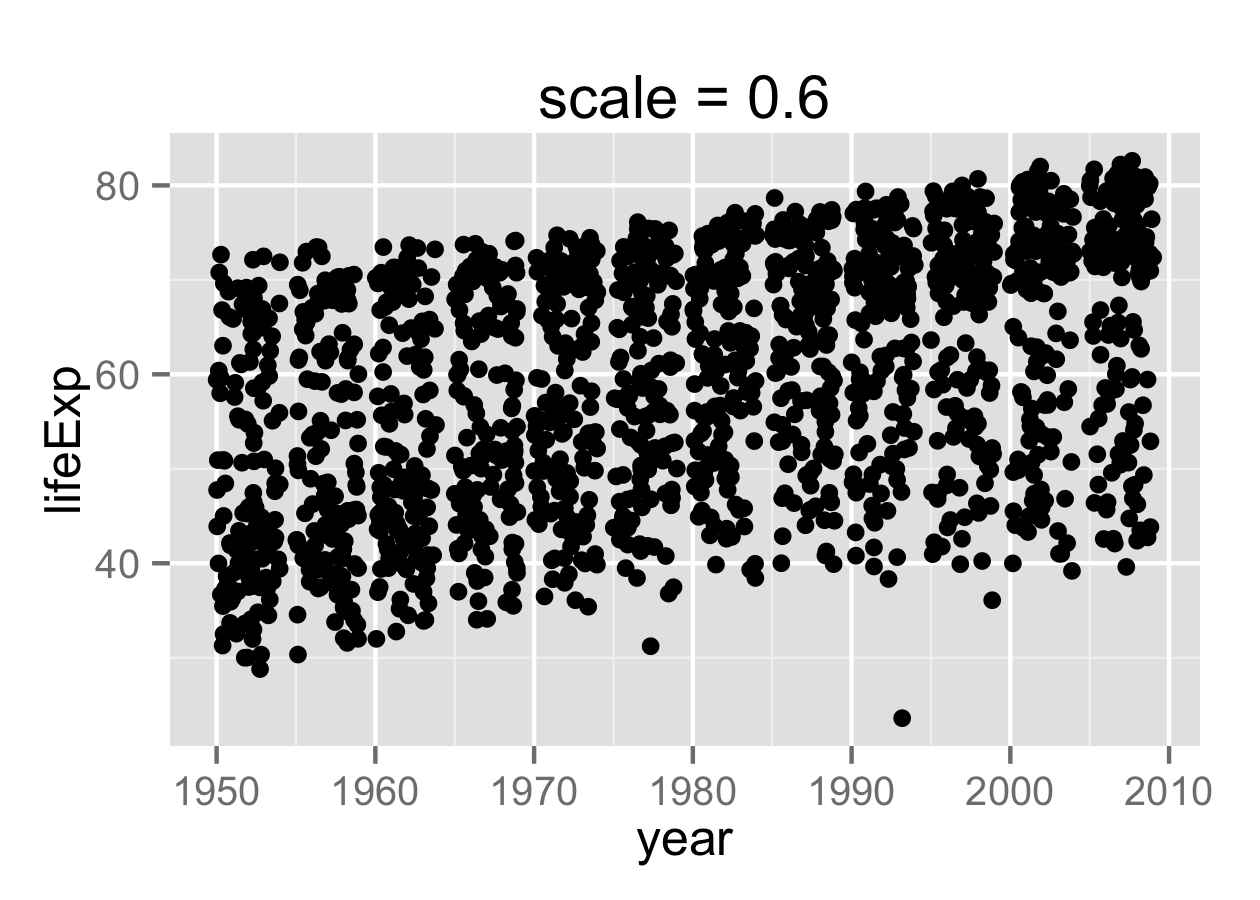
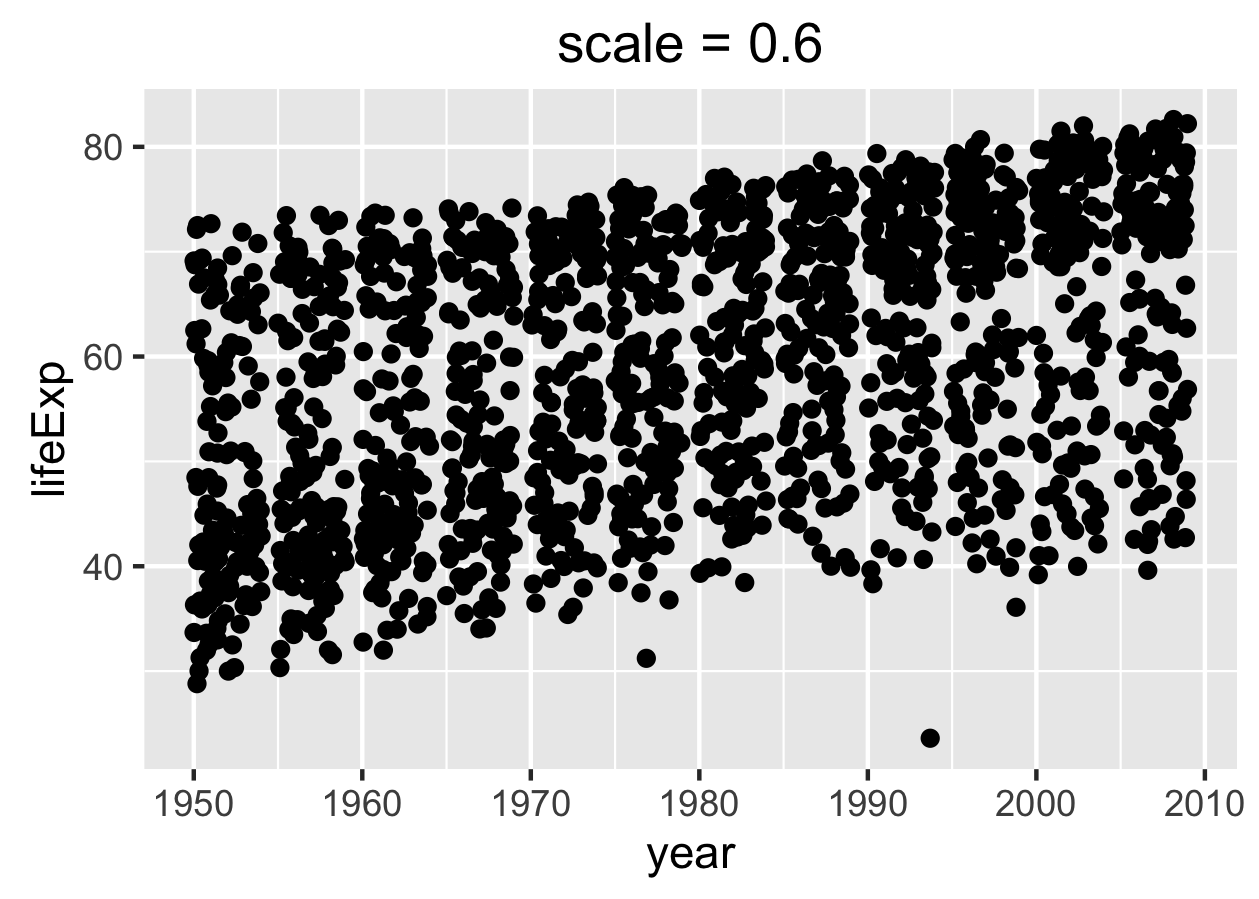
update block017_write-figure-to-file

diff --git a/block017_write-figure-to-file.html b/block017_write-figure-to-file.html
@@ -138,7 +138,7 @@ img {
 </div>
 <div id="graphics-devices" class="section level3">
 <h3>Graphics devices</h3>
-<p>Read the <a href="http://www.rdocumentation.org/packages/grDevices/functions/Devices">R help for <code>Devices</code></a> to learn about graphics devices in general and which are available on your system (<em>obviously requires you read your local help</em>).</p>
+<p>Read the <a href="http://www.rdocumentation.org/packages/grDevices/functions/Devices">R help for <code>Devices</code></a> to learn about graphics devices in general and which are available on your system (<em>obviously requires that you read your local help</em>).</p>
 <p>It is very important to understand the difference between <a href="http://en.wikipedia.org/wiki/Vector_graphics">vector graphics</a> and <a href="http://en.wikipedia.org/wiki/Raster_graphics">raster</a>. Vector graphics are represented in terms of shapes and lines, whereas raster graphics are pixel-based.</p>
 <ul>
 <li><strong>vector</strong> examples: PDF, postscript, SVG
@@ -152,7 +152,7 @@ img {
 </ul></li>
 </ul>
 <p>Tough love: you will not be able to pick vector or raster or a single device and use it all the time. You must think about your downstream use cases and plan accordingly. It is entirely possible that you should save key figures <strong>in more than one format</strong> for maximum flexibility in the future. Worst case, if you obey the rules given here, you can always remake the figure to save in a new format.</p>
-<p>FWIW most of my figures exist as <code>pdf()</code>, <code>png()</code>, or both.</p>
+<p>FWIW most of my figures exist as <code>pdf()</code>, <code>png()</code>, or both. Although it is not true yet, SVG will hopefully become the new standard, offering the resizability of vector graphics but with web-friendliness as well.</p>
 <p>Here are two good posts from the Revolutions Analytics blog with tips for saving figures to file:</p>
 <ul>
 <li><a href="http://blog.revolutionanalytics.com/2009/01/10-tips-for-making-your-r-graphics-look-their-best.html">10 tips for making your R graphics look their best</a></li>
@@ -168,10 +168,10 @@ img {
 <div id="passing-a-plot-object-to-ggsave" class="section level4">
 <h4>Passing a plot object to <code>ggsave()</code></h4>
 <p>After the filename, the most common argument you will provide is <code>plot =</code>, which is the second argument by position. If you’ve been building up a plot with the typical <code>ggplot2</code> workflow, you will pass the resulting object to <code>ggsave()</code>. Example:</p>
-<pre class="r"><code>p &lt;- ggplot(gDat, aes(x = year, y = lifeExp)) + geom_jitter()
+<pre class="r"><code>p &lt;- ggplot(gapminder, aes(x = year, y = lifeExp)) + geom_jitter()
 # during development, you will uncomment next line to print p to screen
 # p
-ggsave(&quot;imp/fig-io-practice.png&quot;, p)</code></pre>
+ggsave(&quot;fig-io-practice.png&quot;, p)</code></pre>
 <p>See below for gotchas and FAQs when making figures in a non-interactive setting!</p>
 </div>
 <div id="scaling" class="section level4">
@@ -180,8 +180,8 @@ ggsave(&quot;imp/fig-io-practice.png&quot;, p)</code></pre>
 <p><strong>Via the <code>scale =</code> argument to <code>ggsave()</code></strong>: This actually changes the physical size of the plot, but as an interesting side effect, it changes the relative size of the title and axis labels. Therefore, tweaking this can be a quick-and-dirty way to get different versions of a figure appropriate for a presentation versus a poster versus a manuscript. You can still insert the figure downstream with a different physical size, though you may need to adjust the dpi accordingly on the front end. When <code>scale &lt; 1</code>, various plot elements will be bigger relative to the plotting area; when <code>scale &gt; 1</code>, these elements will be smaller. YMMV but <code>scale = 0.8</code> often works well for posters and slides. Below are two versions of a figure, with exaggerated values of <code>scale</code>, to illustrate its effect.</p>
 <p><strong>Via the <code>base_size</code> of the active theme</strong>: The <code>base_size</code> of the <a href="http://docs.ggplot2.org/dev/vignettes/themes.html">theme</a> refers to the base font size. This is NOT a theme element that can be modified via <code>ggplot(...) + theme(...)</code>. Rather, it’s an argument to various functions that set theme elements. Therefore, to get the desired effect you need to create a complete theme, specifying the desired <code>base_size</code>. By setting <code>base size &lt; 12</code>, the default value, you shrink text elements and by setting <code>base_size &gt; 12</code>, you make them larger. Below are two versions of a figure, with exaggerated values of <code>base_size</code>, to illustrate its effect.</p>
 <pre class="r"><code>suppressPackageStartupMessages(library(ggplot2))
-gDat &lt;- read.delim(&quot;gapminderDataFiveYear.tsv&quot;)
-p &lt;- ggplot(gDat, aes(x = year, y = lifeExp)) + geom_jitter()
+library(gapminder)
+p &lt;- ggplot(gapminder, aes(x = year, y = lifeExp)) + geom_jitter()
 p1 &lt;- p + ggtitle(&quot;scale = 0.6&quot;)
 p2 &lt;- p + ggtitle(&quot;scale = 2&quot;)
 p3 &lt;- p + ggtitle(&quot;base_size = 20&quot;) + theme_grey(base_size = 20)
@@ -228,7 +228,7 @@ dev.off()                     # closes the PDF file
 <pre class="r"><code>list.files(pattern = &quot;^test-fig*&quot;)
 ## [1] &quot;test-fig-proper.pdf&quot;</code></pre>
 <p>If you run this code interactively, don’t be surprised when you don’t see the figure appear in your screen device. While you’re sending graphics output to, e.g., the <code>pdf()</code> device, you’ll be “flying blind”, which is why it’s important to work out the graphics commands in advance. This is like using <code>sink()</code>, which diverts the output you’d normally see in R Console.</p>
-<p>Read the <a href="http://www.rdocumentation.org/packages/grDevices/functions/Devices">R help for <code>Devices</code></a> to learn about graphics devices in general and which are available on your system (<em>obviously requires you read your local help</em>). If you need control over, e.g., width, height, or dpi, roll up your sleeves and use the arguments to the graphics device function you are using. There are many.</p>
+<p>Read the <a href="http://www.rdocumentation.org/packages/grDevices/functions/Devices">R help for <code>Devices</code></a> to learn about graphics devices in general and which are available on your system (<em>obviously requires that you read your local help</em>). If you need control over, e.g., width, height, or dpi, roll up your sleeves and use the arguments to the graphics device function you are using. There are many.</p>
 <p>If you are staring at a plot you just made on your screen, here’s a handy short cut for writing a figure to file:</p>
 <pre class="r"><code>plot(1:10)            # makes the actual plot</code></pre>
 <p><img src="block017_write-figure-to-file_files/figure-html/dev-print-demo-1.png" alt="" /></p>
@@ -253,14 +253,15 @@ dev.off()                     # closes the PDF file
 <li>You run an R script non-interactively, e.g. via <code>source()</code>, <code>Rscript</code>, or <code>R CMD batch</code>.</li>
 </ul>
 <p><strong>Basic issue</strong>: When working interactively, if you inspect the plot object <code>p</code> by entering <code>p</code> at the command line, the plot gets printed to screen. You’re actually enjoying the result of <code>print(p)</code>, but it’s easy to not realize this. To get the same result from code run non-interactively, you will need to call <code>print()</code> explicitly yourself.</p>
-<p>Here I wrap plotting commands inside a function. The function on the left will fail to produce a PNG, whereas the function on the right will produce a good PNG. Both assume the Gapminder data is present as <code>gDat</code> and that <code>ggplot2</code> has been loaded.</p>
+<p>Here I wrap plotting commands inside a function. The function on the left will fail to produce a PNG, whereas the function on the right will produce a good PNG. Both assume the Gapminder data is present as <code>gapminder</code> and that <code>ggplot2</code> has been loaded.</p>
 <table border="1">
 <tr>
 <td valign="top">
 <pre class="r"><code>## implicit print --&gt; no PNG
 f_despair &lt;- function() {
   png(&quot;test-fig-despair.png&quot;)
-  p &lt;- ggplot(gDat, aes(x = year, y = lifeExp))
+  p &lt;- ggplot(gapminder,
+     aes(x = year, y = lifeExp))
   p + geom_jitter()
   dev.off()    
 }
@@ -270,9 +271,10 @@ f_despair()</code></pre>
 <pre class="r"><code>## explicit print --&gt; good PNG
 f_joy &lt;- function() {
   png(&quot;test-fig-joy.png&quot;)
-  p &lt;- ggplot(gDat, aes(x = year, y = lifeExp))
+  p &lt;- ggplot(gapminder,
+     aes(x = year, y = lifeExp))
   p &lt;- p + geom_jitter()
-  print(p)
+  print(p) ## &lt;-- VERY IMPORTANT!!!
   dev.off()    
 }
 f_joy() </code></pre>
@@ -290,6 +292,7 @@ f_joy() </code></pre>
 </div>
 <div id="mysterious-empty-rplots.pdf-file" class="section level4">
 <h4>Mysterious empty <code>Rplots.pdf</code> file</h4>
+<p><em>2015-10-19 update: <a href="https://github.com/hadley/ggplot2/issues/1326">This has been fixed</a> in the soon-to-be-released version of <code>ggplot2</code>. Hallelujah! I will leave this here for a while, since old versions of a package like <code>ggplot2</code> linger around for months and years.</em></p>
 <p>When creating and writing figures from R running non-interactively, you can inadvertently trigger a request to query the active graphics device. For example, <code>ggsave()</code> might try to ascertain the physical size of the current device. But when running non-interactively there is often no such device available, which can lead to the unexpected creation of <code>Rplots.pdf</code> so this request can be fulfilled.</p>
 <p>I don’t know of a reliable way to suppress this behavior uniformly and I just peacefully coexist with <code>Rplots.pdf</code> when this happens. That is, I just delete it.</p>
 <p>Some relevant threads on stackoverflow:</p>
@@ -300,19 +303,17 @@ f_joy() </code></pre>
 </div>
 <div id="chunk-name-determines-figure-file-name" class="section level3">
 <h3>Chunk name determines figure file name</h3>
-<p>Coming full circle, we return to the topic of figures produced via an R chunk in an R Markdown file. If you are <a href="http://stat545-ubc.github.io/block007_first-use-rmarkdown.html#step-3-save-the-intermediate-markdown">keeping the intermediate markdown</a>, via <code>keep.md: true</code> in the YAML frontmatter, your figures will also be saved to file. Rendering <code>foo.Rmd</code> will leave behind <code>foo.md</code>, <code>foo.html</code>, and a directory <code>foo_files</code>, containing any figures created in the document. By default, they will have meaningless names, like <code>unnamed-chunk-7.png</code>. This makes it difficult to find specific figures, i.e. for unplanned use in another setting. However, if you name an R chunk, this name will be baked into the figure file name.</p>
+<p>Coming full circle, we return to the topic of figures produced via an R chunk in an R Markdown file. If you are <a href="http://stat545-ubc.github.io/block007_first-use-rmarkdown.html#step-3-save-the-intermediate-markdown">keeping the intermediate markdown</a>, via <code>keep_md: true</code> in the YAML frontmatter, your figures will also be saved to file. Rendering <code>foo.Rmd</code> will leave behind <code>foo.md</code>, <code>foo.html</code>, and a directory <code>foo_files</code>, containing any figures created in the document. By default, they will have meaningless names, like <code>unnamed-chunk-7.png</code>. This makes it difficult to find specific figures, i.e. for unplanned use in another setting. However, if you name an R chunk, this name will be baked into the figure file name.</p>
 <!-- the "live" version of the chunk I include verbatim below -->
 <p>Example: here’s an R chunk called <code>scatterplot-lifeExp-vs-year</code></p>
 <pre><code>```{r scatterplot-lifeExp-vs-year}
-p &lt;- ggplot(gDat, aes(x = year, y = lifeExp)) + geom_jitter()
+p &lt;- ggplot(gapminder, aes(x = year, y = lifeExp)) + geom_jitter()
 p
 ```</code></pre>
 <p>And it will lead to the creation of a suitably named figure file (you may see other figures produced in the document as well):</p>
 <pre class="r"><code>list.files(&quot;block017_write-figure-to-file_files/&quot;, recursive = TRUE)
 ## [1] &quot;figure-html/dev-print-demo-1.png&quot;             
-## [2] &quot;figure-html/dev-print-demo.png&quot;               
-## [3] &quot;figure-html/scatterplot-lifeExp-vs-year-1.png&quot;
-## [4] &quot;figure-html/scatterplot-lifeExp-vs-year.png&quot;</code></pre>
+## [2] &quot;figure-html/scatterplot-lifeExp-vs-year-1.png&quot;</code></pre>
 <p>If you have concrete plans to use a figure elsewhere, you should probably write it to file using an explicit method described above. But the chunk-naming trick is a nice way to avoid that work, while maintaining flexibility for the future.</p>
 </div>
 <div id="clean-up" class="section level3">

diff --git a/topics.html b/topics.html
@@ -118,7 +118,7 @@ img {
 <li><a href="block007_first-use-rmarkdown.html">Test drive R Markdown</a></li>
 <li><a href="graph00_index.html">All the graph things</a>, an annotated index
 <ul>
-<li>R graphics landscape *[slides]<a href="https://speakerdeck.com/jennybc/ggplot2-tutorial)*" class="uri">https://speakerdeck.com/jennybc/ggplot2-tutorial)*</a></li>
+<li>R graphics landscape <em><a href="https://speakerdeck.com/jennybc/ggplot2-tutorial">slides</a></em></li>
 <li><a href="https://github.com/jennybc/ggplot2-tutorial"><code>ggplot2</code> tutorial</a>, heavy on code and examples</li>
 <li><a href="block015_graph-dos-donts.html">Do’s and don’ts of making effective graphs</a></li>
 <li><a href="http://shiny.stat.ubc.ca/r-graph-catalog/">R Graph Catalog</a>, a visual, clickable index of 100+ figures + <code>ggplot2</code> code to make them</li>

diff --git a/block017_write-figure-to-file.md b/block017_write-figure-to-file.md
@@ -32,7 +32,7 @@ All of these human practices will help you zero in on the R code you need, so yo
 
 ### Graphics devices
 
-Read the [R help for `Devices`](http://www.rdocumentation.org/packages/grDevices/functions/Devices) to learn about graphics devices in general and which are available on your system (*obviously requires you read your local help*).
+Read the [R help for `Devices`](http://www.rdocumentation.org/packages/grDevices/functions/Devices) to learn about graphics devices in general and which are available on your system (*obviously requires that you read your local help*).
 
 It is very important to understand the difference between [vector graphics](http://en.wikipedia.org/wiki/Vector_graphics) and [raster](http://en.wikipedia.org/wiki/Raster_graphics). Vector graphics are represented in terms of shapes and lines, whereas raster graphics are pixel-based.
 
@@ -44,7 +44,7 @@ It is very important to understand the difference between [vector graphics](http
   
 Tough love: you will not be able to pick vector or raster or a single device and use it all the time. You must think about your downstream use cases and plan accordingly. It is entirely possible that you should save key figures __in more than one format__ for maximum flexibility in the future. Worst case, if you obey the rules given here, you can always remake the figure to save in a new format.
 
-FWIW most of my figures exist as `pdf()`, `png()`, or both.
+FWIW most of my figures exist as `pdf()`, `png()`, or both. Although it is not true yet, SVG will hopefully become the new standard, offering the resizability of vector graphics but with web-friendliness as well.
 
 Here are two good posts from the Revolutions Analytics blog with tips for saving figures to file:
 
@@ -69,10 +69,10 @@ After the filename, the most common argument you will provide is `plot =`, which
 
 
 ```r
-p <- ggplot(gDat, aes(x = year, y = lifeExp)) + geom_jitter()
+p <- ggplot(gapminder, aes(x = year, y = lifeExp)) + geom_jitter()
 # during development, you will uncomment next line to print p to screen
 # p
-ggsave("imp/fig-io-practice.png", p)
+ggsave("fig-io-practice.png", p)
 ```
 
 See below for gotchas and FAQs when making figures in a non-interactive setting!
@@ -88,8 +88,8 @@ __Via the `base_size` of the active theme__: The `base_size` of the [theme](http
 
 ```r
 suppressPackageStartupMessages(library(ggplot2))
-gDat <- read.delim("gapminderDataFiveYear.tsv")
-p <- ggplot(gDat, aes(x = year, y = lifeExp)) + geom_jitter()
+library(gapminder)
+p <- ggplot(gapminder, aes(x = year, y = lifeExp)) + geom_jitter()
 p1 <- p + ggtitle("scale = 0.6")
 p2 <- p + ggtitle("scale = 2")
 p3 <- p + ggtitle("base_size = 20") + theme_grey(base_size = 20)
@@ -140,7 +140,7 @@ list.files(pattern = "^test-fig*")
 
 If you run this code interactively, don't be surprised when you don't see the figure appear in your screen device. While you're sending graphics output to, e.g., the `pdf()` device, you'll be "flying blind", which is why it's important to work out the graphics commands in advance. This is like using `sink()`, which diverts the output you'd normally see in R Console.
 
-Read the [R help for `Devices`](http://www.rdocumentation.org/packages/grDevices/functions/Devices) to learn about graphics devices in general and which are available on your system (*obviously requires you read your local help*). If you need control over, e.g., width, height, or dpi, roll up your sleeves and use the arguments to the graphics device function you are using. There are many.
+Read the [R help for `Devices`](http://www.rdocumentation.org/packages/grDevices/functions/Devices) to learn about graphics devices in general and which are available on your system (*obviously requires that you read your local help*). If you need control over, e.g., width, height, or dpi, roll up your sleeves and use the arguments to the graphics device function you are using. There are many.
 
 If you are staring at a plot you just made on your screen, here's a handy short cut for writing a figure to file:
 
@@ -183,7 +183,7 @@ Certain workflows are suited to interactive development and will break when play
 
 __Basic issue__: When working interactively, if you inspect the plot object `p` by entering `p` at the command line, the plot gets printed to screen. You're actually enjoying the result of `print(p)`, but it's easy to not realize this. To get the same result from code run non-interactively, you will need to call `print()` explicitly yourself.
 
-Here I wrap plotting commands inside a function. The function on the left will fail to produce a PNG, whereas the function on the right will produce a good PNG. Both assume the Gapminder data is present as `gDat` and that `ggplot2` has been loaded.
+Here I wrap plotting commands inside a function. The function on the left will fail to produce a PNG, whereas the function on the right will produce a good PNG. Both assume the Gapminder data is present as `gapminder` and that `ggplot2` has been loaded.
 
 <table border = 1>
 <tr>
@@ -192,7 +192,8 @@ Here I wrap plotting commands inside a function. The function on the left will f
 ## implicit print --> no PNG
 f_despair <- function() {
   png("test-fig-despair.png")
-  p <- ggplot(gDat, aes(x = year, y = lifeExp))
+  p <- ggplot(gapminder,
+     aes(x = year, y = lifeExp))
   p + geom_jitter()
   dev.off()    
 }
@@ -204,9 +205,10 @@ f_despair()
 ## explicit print --> good PNG
 f_joy <- function() {
   png("test-fig-joy.png")
-  p <- ggplot(gDat, aes(x = year, y = lifeExp))
+  p <- ggplot(gapminder,
+     aes(x = year, y = lifeExp))
   p <- p + geom_jitter()
-  print(p)
+  print(p) ## <-- VERY IMPORTANT!!!
   dev.off()    
 }
 f_joy() 
@@ -229,6 +231,8 @@ Some relevant threads on stackoverflow:
   
 #### Mysterious empty `Rplots.pdf` file
 
+*2015-10-19 update: [This has been fixed](https://github.com/hadley/ggplot2/issues/1326) in the soon-to-be-released version of `ggplot2`. Hallelujah! I will leave this here for a while, since old versions of a package like `ggplot2` linger around for months and years.*
+
 When creating and writing figures from R running non-interactively, you can inadvertently trigger a request to query the active graphics device. For example, `ggsave()` might try to ascertain the physical size of the current device. But when running non-interactively there is often no such device available, which can lead to the unexpected creation of `Rplots.pdf` so this request can be fulfilled.
 
 I don't know of a reliable way to suppress this behavior uniformly and I just peacefully coexist with `Rplots.pdf` when this happens. That is, I just delete it.
@@ -239,7 +243,7 @@ Some relevant threads on stackoverflow:
 
 ### Chunk name determines figure file name
 
-Coming full circle, we return to the topic of figures produced via an R chunk in an R Markdown file. If you are [keeping the intermediate markdown](http://stat545-ubc.github.io/block007_first-use-rmarkdown.html#step-3-save-the-intermediate-markdown), via `keep.md: true` in the YAML frontmatter, your figures will also be saved to file. Rendering `foo.Rmd` will leave behind `foo.md`, `foo.html`, and a directory `foo_files`, containing any figures created in the document. By default, they will have meaningless names, like `unnamed-chunk-7.png`. This makes it difficult to find specific figures, i.e. for unplanned use in another setting. However, if you name an R chunk, this name will be baked into the figure file name.
+Coming full circle, we return to the topic of figures produced via an R chunk in an R Markdown file. If you are [keeping the intermediate markdown](http://stat545-ubc.github.io/block007_first-use-rmarkdown.html#step-3-save-the-intermediate-markdown), via `keep_md: true` in the YAML frontmatter, your figures will also be saved to file. Rendering `foo.Rmd` will leave behind `foo.md`, `foo.html`, and a directory `foo_files`, containing any figures created in the document. By default, they will have meaningless names, like `unnamed-chunk-7.png`. This makes it difficult to find specific figures, i.e. for unplanned use in another setting. However, if you name an R chunk, this name will be baked into the figure file name.
 
 <!-- the "live" version of the chunk I include verbatim below -->
 
@@ -247,7 +251,7 @@ Coming full circle, we return to the topic of figures produced via an R chunk in
 Example: here's an R chunk called `scatterplot-lifeExp-vs-year`
  
     ```{r scatterplot-lifeExp-vs-year}
-    p <- ggplot(gDat, aes(x = year, y = lifeExp)) + geom_jitter()
+    p <- ggplot(gapminder, aes(x = year, y = lifeExp)) + geom_jitter()
     p
     ```
 
@@ -257,9 +261,7 @@ And it will lead to the creation of a suitably named figure file (you may see ot
 ```r
 list.files("block017_write-figure-to-file_files/", recursive = TRUE)
 ## [1] "figure-html/dev-print-demo-1.png"             
-## [2] "figure-html/dev-print-demo.png"               
-## [3] "figure-html/scatterplot-lifeExp-vs-year-1.png"
-## [4] "figure-html/scatterplot-lifeExp-vs-year.png"
+## [2] "figure-html/scatterplot-lifeExp-vs-year-1.png"
 ```
 
 If you have concrete plans to use a figure elsewhere, you should probably write it to file using an explicit method described above. But the chunk-naming trick is a nice way to avoid that work, while maintaining flexibility for the future.

diff --git a/topics.md b/topics.md
@@ -17,7 +17,7 @@
   * [R objects (beyond data.frames) and indexing](block004_basic-r-objects.html)
   * [Test drive R Markdown](block007_first-use-rmarkdown.html)
   * [All the graph things](graph00_index.html), an annotated index
-    - R graphics landscape *[slides]https://speakerdeck.com/jennybc/ggplot2-tutorial)*
+    - R graphics landscape *[slides](https://speakerdeck.com/jennybc/ggplot2-tutorial)*
     - [`ggplot2` tutorial](https://github.com/jennybc/ggplot2-tutorial), heavy on code and examples
     - [Do's and don'ts of making effective graphs](block015_graph-dos-donts.html)
     - [R Graph Catalog](http://shiny.stat.ubc.ca/r-graph-catalog/), a visual, clickable index of 100+ figures + `ggplot2` code to make them
